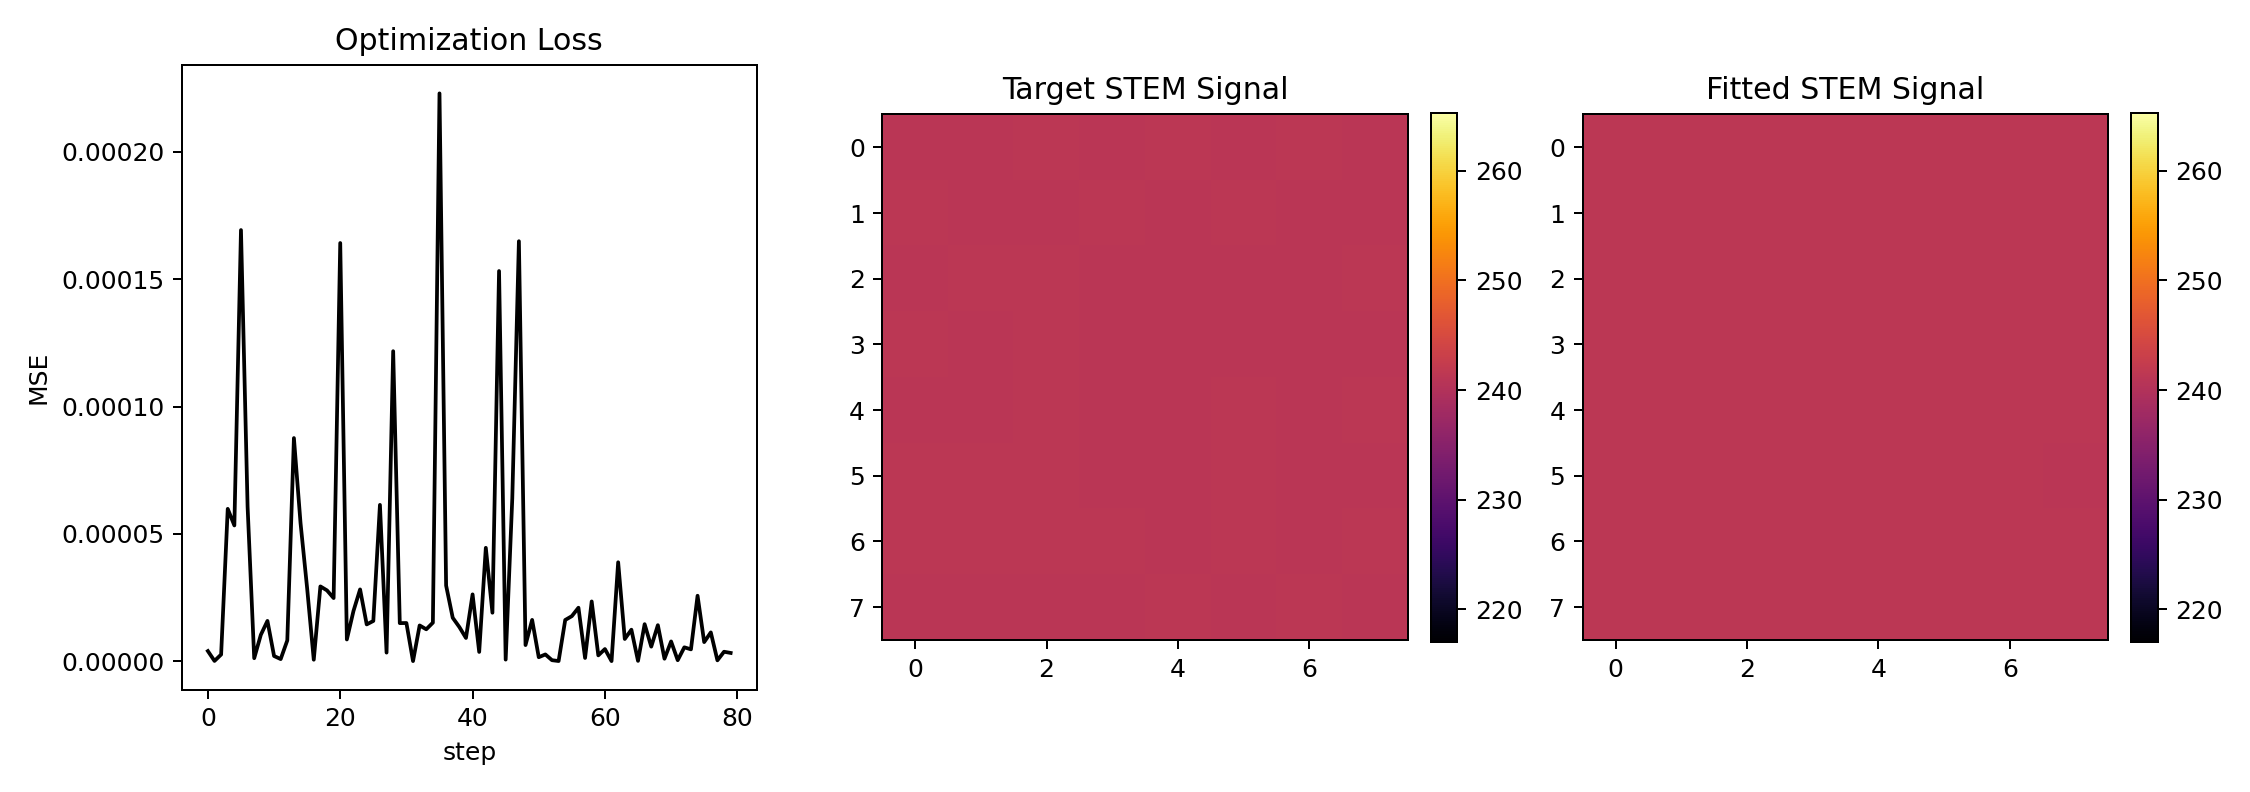
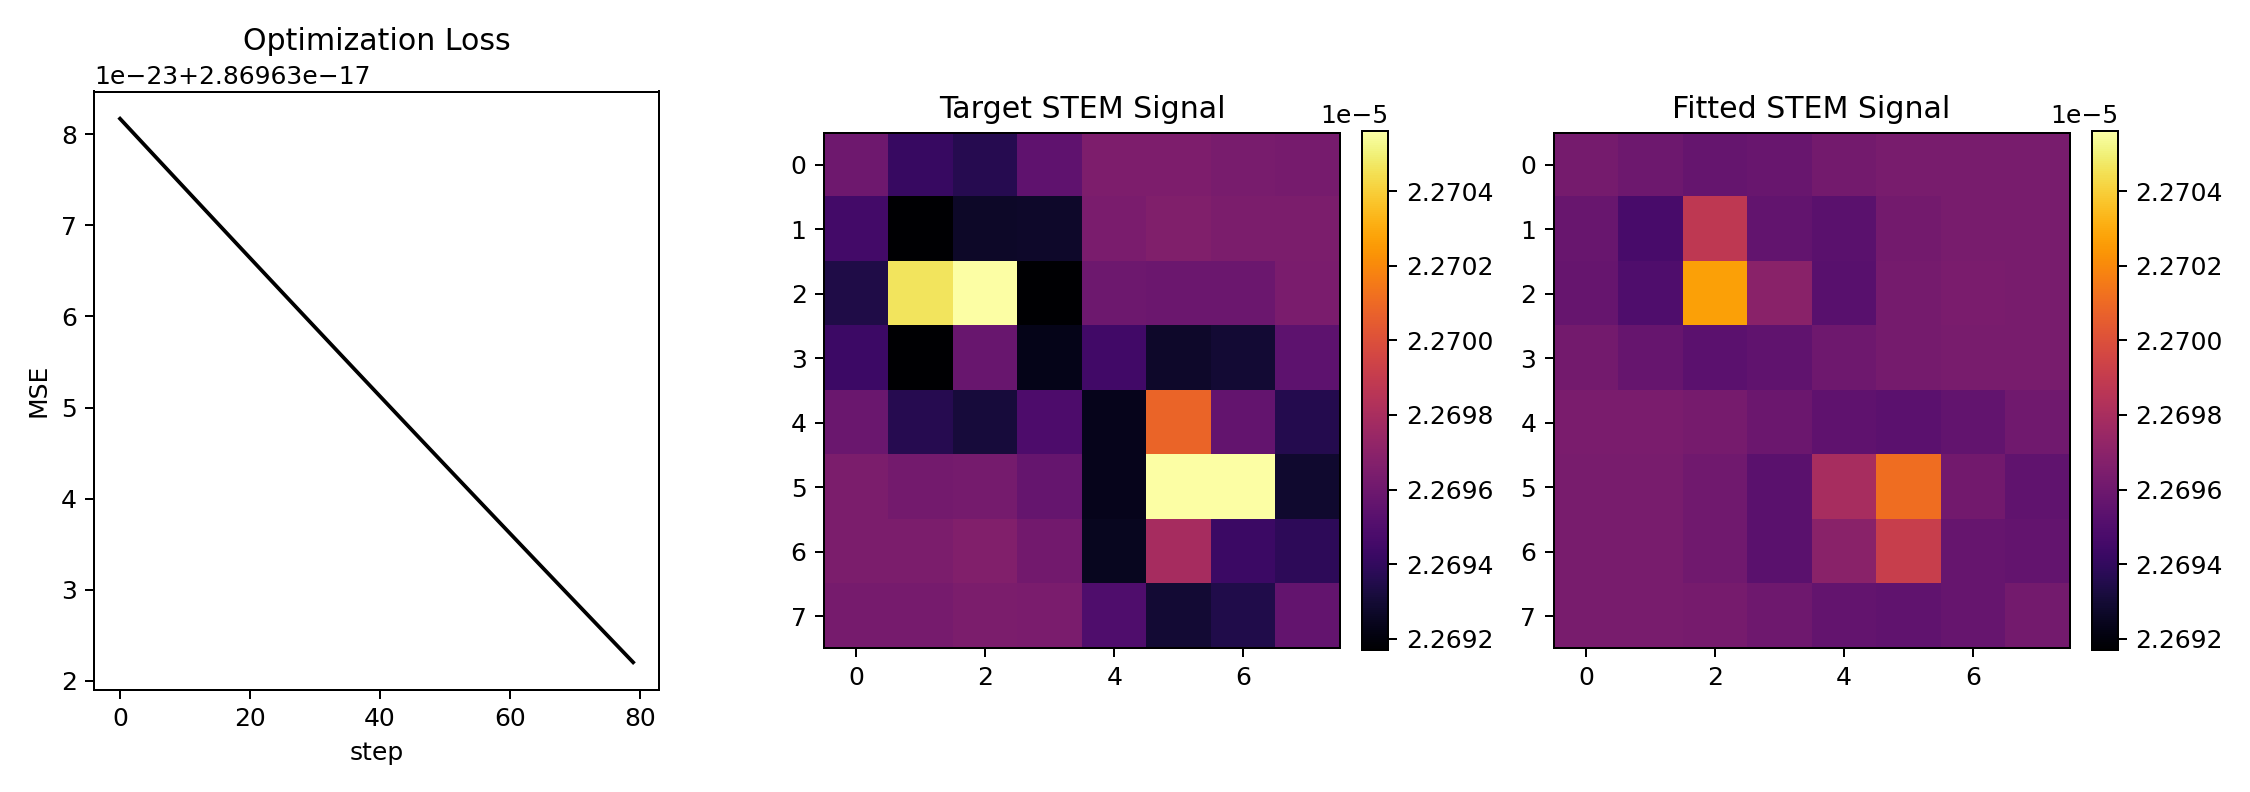
STEM fitting example only covered 0 to 3 A, atoms are in the range 5.5 to 10.5 A. Fixed san range and plotting.

diff --git a/examples/fit_stem_experiment_parameters.py b/examples/fit_stem_experiment_parameters.py
@@ -26,6 +26,16 @@ from torchtem import (
 OUTPUT_DIR = pathlib.Path(__file__).resolve().with_name("output")
 
 
+def _robust_limits(image: torch.Tensor, *, lower: float = 0.01, upper: float = 0.99) -> tuple[float, float]:
+    flat = image.reshape(-1).to(torch.float64)
+    q = torch.quantile(flat, torch.tensor([lower, upper], dtype=flat.dtype))
+    vmin = float(q[0])
+    vmax = float(q[1])
+    if vmax <= vmin:
+        vmax = vmin + 1e-12
+    return vmin, vmax
+
+
 def build_experiment(
     *,
     c10: float,
@@ -33,6 +43,8 @@ def build_experiment(
     amplitudes: torch.Tensor,
     sigmas_A: torch.Tensor,
 ) -> ExperimentBuilder:
+    min_corner = positions_A.amin(dim=0) - 2.5
+    max_corner = positions_A.amax(dim=0) + 2.5
     return ExperimentBuilder.from_stem(
         STEMConfig(
             source=ProbeSourceConfig(
@@ -61,8 +73,8 @@ def build_experiment(
                 outer_mrad=80.0,
             ),
             scan=GridScanConfig(
-                start_A=(0.0, 0.0),
-                end_A=(3.0, 3.0),
+                start_A=tuple(float(value) for value in min_corner),
+                end_A=tuple(float(value) for value in max_corner),
                 shape=(8, 8),
             ),
         )
@@ -109,6 +121,11 @@ def main() -> None:
 
     final_prediction = fit().detach().cpu().reshape(8, 8)
     target_image = target_signal.detach().cpu().reshape(8, 8)
+    display_vmin, display_vmax = _robust_limits(
+        torch.stack([target_image, final_prediction]),
+        lower=0.02,
+        upper=0.98,
+    )
 
     fig, axes = plt.subplots(1, 3, figsize=(12.5, 4.4), dpi=180)
     loss_ax, target_ax, fit_ax = axes
@@ -118,11 +135,23 @@ def main() -> None:
     loss_ax.set_xlabel("step")
     loss_ax.set_ylabel("MSE")
 
-    target_im = target_ax.imshow(target_image.numpy(), cmap="inferno", aspect="equal")
+    target_im = target_ax.imshow(
+        target_image.numpy(),
+        cmap="inferno",
+        aspect="equal",
+        vmin=display_vmin,
+        vmax=display_vmax,
+    )
     target_ax.set_title("Target STEM Signal")
     fig.colorbar(target_im, ax=target_ax, fraction=0.046, pad=0.04)
 
-    fit_im = fit_ax.imshow(final_prediction.numpy(), cmap="inferno", aspect="equal")
+    fit_im = fit_ax.imshow(
+        final_prediction.numpy(),
+        cmap="inferno",
+        aspect="equal",
+        vmin=display_vmin,
+        vmax=display_vmax,
+    )
     fit_ax.set_title("Fitted STEM Signal")
     fig.colorbar(fit_im, ax=fit_ax, fraction=0.046, pad=0.04)
 